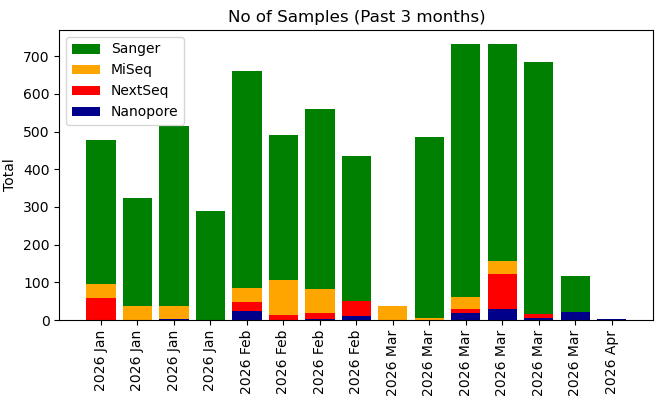
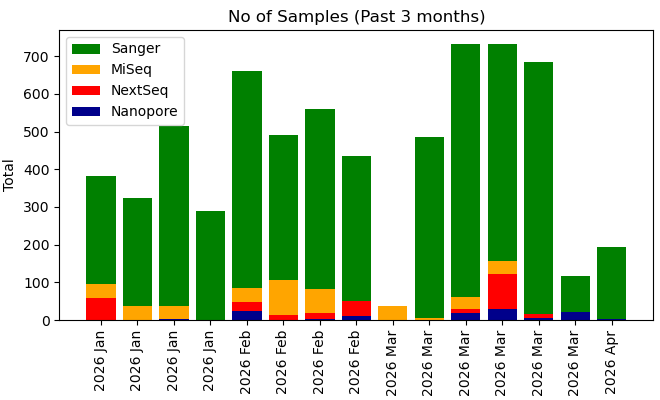
Your commit message here

Changed region(s): [[0.8788, 0.6, 0.9697, 0.81], [0.1212, 0.33, 0.1818, 0.45]]

diff --git a/krona/cgs.html b/krona/cgs.html
@@ -52,8 +52,8 @@ body {
   flex-direction: column;
 }
 </style>
-<H1>Genomics Facility Status: 07:00:10, 02/04/2026</H1>
-<marquee behavior="scroll" scrollamount="20" direction="left" bgcolor="lightgrey">AGAAAAAAAGTTTGAATTATGGCGAGAAATAAAAGTCTGAAACATGATTAAACTCCTAAGCAGAAAACCTACCGCGCTTCGCTTGGTCAACCCCTCAGCGGCAAAAATTAAAATTTTTACCGCTTCGGCGTTATAACCTCACACTCAATCTTTTATCACGAAGTCATGATTGAATCGCGAGTGGTCGGCAGATTGCGATAAACGGTCACATTAAATTTAACCTGACTATTCCACTGCAACAACTGAACGG</marquee>
+<H1>Genomics Facility Status: 07:00:07, 03/04/2026</H1>
+<marquee behavior="scroll" scrollamount="20" direction="left" bgcolor="lightgrey">CCAGCCGTTTGAGCTTGAGTAAGCATTTGGCGCATAATCTCGGAAACCTGCTGTTGCTTGGAAAGATTGGTGTTTTCCATAATAGACGCAACGCGAGCAGTAGACTCCTTCTGTTGATAAGCAAGCATCTCATTTTGTGCATATACCTGGTCTTTCGTATTCTGGCGTGAAGTCGCCGACTGAATGCCAGCAATCTCTTTTTGAGTCTCATTTTGCATCTCGGCAATCTCTTTCTGATTGTCCAGTTGCAT</marquee>
 <TABLE BORDER=0><TR><TD><TABLE class="styled-table"><H3>GigaBases Sequenced</H3>
-<TR><TD><b>Platform</b></TD><TD><b>Week</b></TD><TD><b>Month</b></TD><TD><b>Year</b></TD><TD><b>Total</b></TD></TR><TR><TD>Illumina MiSeq</TD><TD>0.0</TD><TD>18.62</TD><TD>351.08</TD><TD>517.1</TD></TR><TR><TD>Illumina NextSeq</TD><TD>76.33</TD><TD>242.05</TD><TD>4520.4</TD><TD>6463.94</TD></TR><TR><TD>Nanopore PromethION</TD><TD>448.89</TD><TD>734.47</TD><TD>7856.87</TD><TD>11868.09</TD></TR><TR><TD>Sanger</TD><TD>0.0</TD><TD>0.0</TD><TD>0.02</TD><TD>0.04</TD></TR></TABLE></TD><TD><IMG SRC="fig1.png"><IMG SRC="fig2.png"></TD></TR><TR><TD><H3>No. Samples (No. Experiments)</H3>
-<TABLE class="styled-table"><TR><TD><b>Platform</b></TD><TD><b>Week</b></TD><TD><b>Month</b></TD><TD><b>Year</b></TD><TD><b>Total</b></TD></TR><TR><TD>Illumina MiSeq</TD><TD>0 (0)</TD><TD>74 (3)</TD><TD>1517 (71)</TD><TD>2339 (93)</TD></TR><TR><TD>Illumina NextSeq</TD><TD>12 (1)</TD><TD>116 (4)</TD><TD>1383 (66)</TD><TD>2085 (83)</TD></TR><TR><TD>Nanopore PromethION</TD><TD>26 (12)</TD><TD>72 (22)</TD><TD>556 (186)</TD><TD>933 (320)</TD></TR><TR><TD>Sanger</TD><TD>480 (480)</TD><TD>2494 (2494)</TD><TD>20155 (20155)</TD><TD>42114 (42114)</TD></TR></TABLE></TD><TD><IMG SRC="fig4.png"></TD></TR></TABLE></HTML>
+<TR><TD><b>Platform</b></TD><TD><b>Week</b></TD><TD><b>Month</b></TD><TD><b>Year</b></TD><TD><b>Total</b></TD></TR><TR><TD>Illumina MiSeq</TD><TD>0.0</TD><TD>18.62</TD><TD>351.08</TD><TD>517.1</TD></TR><TR><TD>Illumina NextSeq</TD><TD>76.33</TD><TD>242.05</TD><TD>4466.95</TD><TD>6463.94</TD></TR><TR><TD>Nanopore PromethION</TD><TD>456.58</TD><TD>742.16</TD><TD>7864.57</TD><TD>11875.78</TD></TR><TR><TD>Sanger</TD><TD>0.0</TD><TD>0.0</TD><TD>0.02</TD><TD>0.04</TD></TR></TABLE></TD><TD><IMG SRC="fig1.png"><IMG SRC="fig2.png"></TD></TR><TR><TD><H3>No. Samples (No. Experiments)</H3>
+<TABLE class="styled-table"><TR><TD><b>Platform</b></TD><TD><b>Week</b></TD><TD><b>Month</b></TD><TD><b>Year</b></TD><TD><b>Total</b></TD></TR><TR><TD>Illumina MiSeq</TD><TD>0 (0)</TD><TD>74 (3)</TD><TD>1517 (71)</TD><TD>2339 (93)</TD></TR><TR><TD>Illumina NextSeq</TD><TD>12 (1)</TD><TD>116 (4)</TD><TD>1364 (65)</TD><TD>2085 (83)</TD></TR><TR><TD>Nanopore PromethION</TD><TD>26 (12)</TD><TD>72 (22)</TD><TD>556 (186)</TD><TD>933 (320)</TD></TR><TR><TD>Sanger</TD><TD>480 (480)</TD><TD>2686 (2686)</TD><TD>20251 (20251)</TD><TD>42306 (42306)</TD></TR></TABLE></TD><TD><IMG SRC="fig4.png"></TD></TR></TABLE></HTML>
